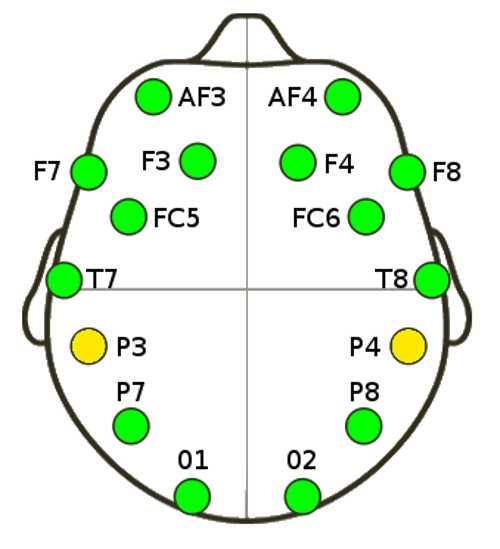
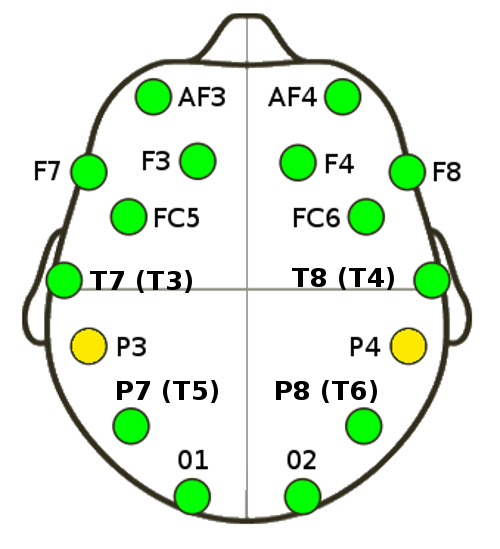
* added sensor description (10-20) * added util script to read recorded eeg data

diff --git a/project/code/util/eeg_table_reader.py b/project/code/util/eeg_table_reader.py
@@ -1,0 +1,101 @@
+#!/usr/bin/python
+
+from numpy import genfromtxt, delete, array
+
+DEFAULT_DELIMITER = ";"
+
+class EEGTableData(object):
+    def __init__(self, header=None, data=None, file_path=""):
+        self.file_path = file_path
+        self.header = header
+        self.data = data
+        self.len = len(data)
+
+    def setHeader(self, header):
+        self.header = header
+
+    def setData(self, data):
+        self.data = data
+        self.len = len(data)
+
+    def getTimeIndex(self, from_time):
+        for i, r in enumerate(self.data):
+            date = r[0]
+            if date >= from_time:
+                return i
+
+    def getColumn(self, column_name, offset=0, limit=-1, length=-1):
+        if column_name not in self.header:
+            return None
+
+        if limit == -1:
+            if  length == -1:
+                limit = self.len
+            else:
+                limit = offset+length
+
+        index = self.header.index(column_name)
+        return self.data[:, index][offset:limit]      
+
+    def getColumnByTime(self, column_name, from_time, to_time):
+        from_index, to_index = 0, -1
+        for i, r in enumerate(self.data):
+            date = r[0]
+            if date >= from_time and from_index == 0:
+                from_index = i
+            if date >= to_time:
+                to_index = i
+                break
+
+        return self.getColumn(column_name, from_index, to_index)
+
+        
+
+        
+
+    def __repr__(self):
+        return "EEGTableData from '%s' len %d\nheader %s" % (self.file_path, self.len, self.header)
+
+class EEGTableReader(object):
+
+    def __init__(self):
+        """This class reads EEGTables"""
+
+    def readHeader(self, file_path, delimiter=DEFAULT_DELIMITER):
+        header = None
+        with open(file_path, 'rb') as f:
+            header = f.readline().strip().split(delimiter)
+        return header
+
+    def readData(self, file_path, delimiter=DEFAULT_DELIMITER):
+        data = delete(genfromtxt(file_path, dtype=float, delimiter=delimiter), 0, 0)
+        return data
+
+    def readFile(self, file_path="", delimiter=DEFAULT_DELIMITER):
+        if file_path == "":
+            return None
+
+        data = self.readData(file_path)
+        header = self.readHeader(file_path)
+
+        return EEGTableData(header, data, file_path)
+    
+
+
+if __name__ == "__main__":
+    e = EEGTableReader()
+    #eeg_data = e.readFile("example_full.csv")
+    eeg_data = e.readFile("example_short.csv")
+
+    print eeg_data
+
+    print eeg_data.getColumn("F4", 2, 7)
+    print eeg_data.getColumn("F4", 2, length=5)
+    print eeg_data.getColumnByTime("F4", 1456820379.22, 1456820379.27)
+    from_index = eeg_data.getTimeIndex(1456820379.22)
+    to_index = eeg_data.getTimeIndex(1456820379.27)
+    print eeg_data.getColumn("F4", from_index, to_index)
+
+
+
+    
